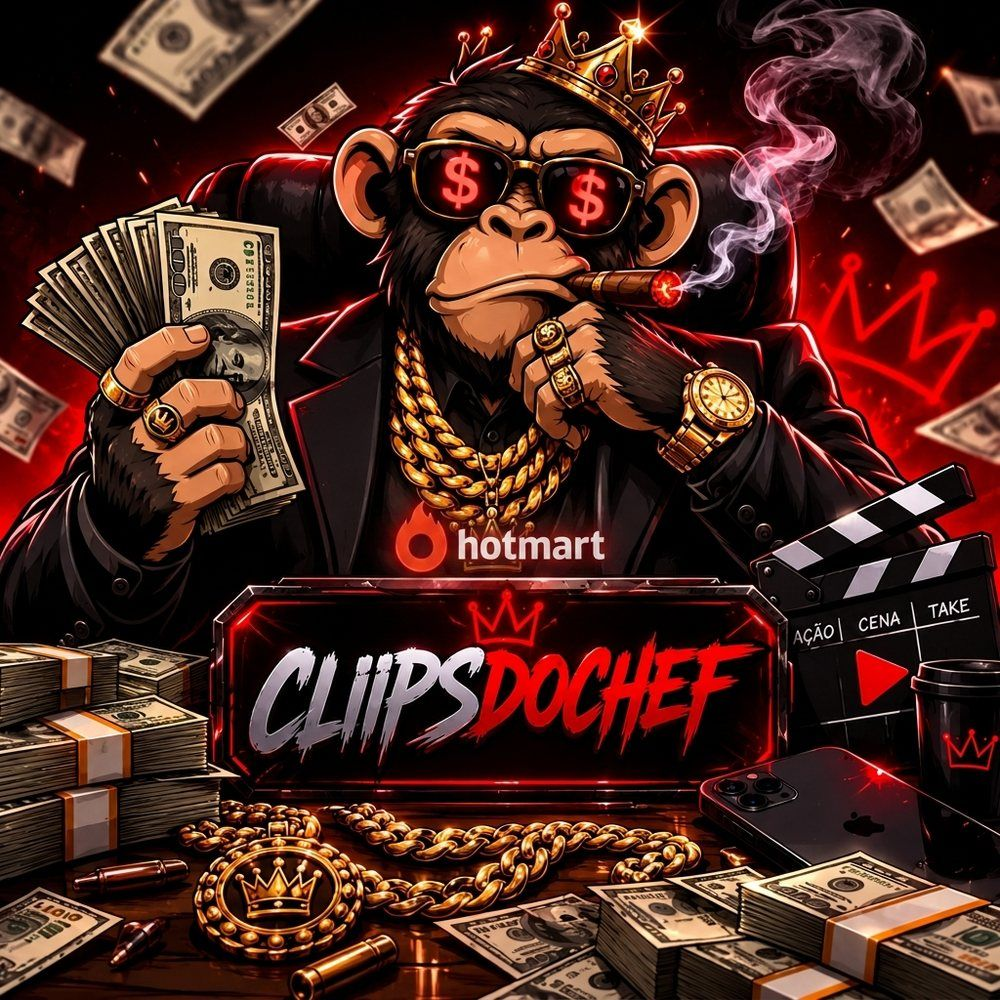
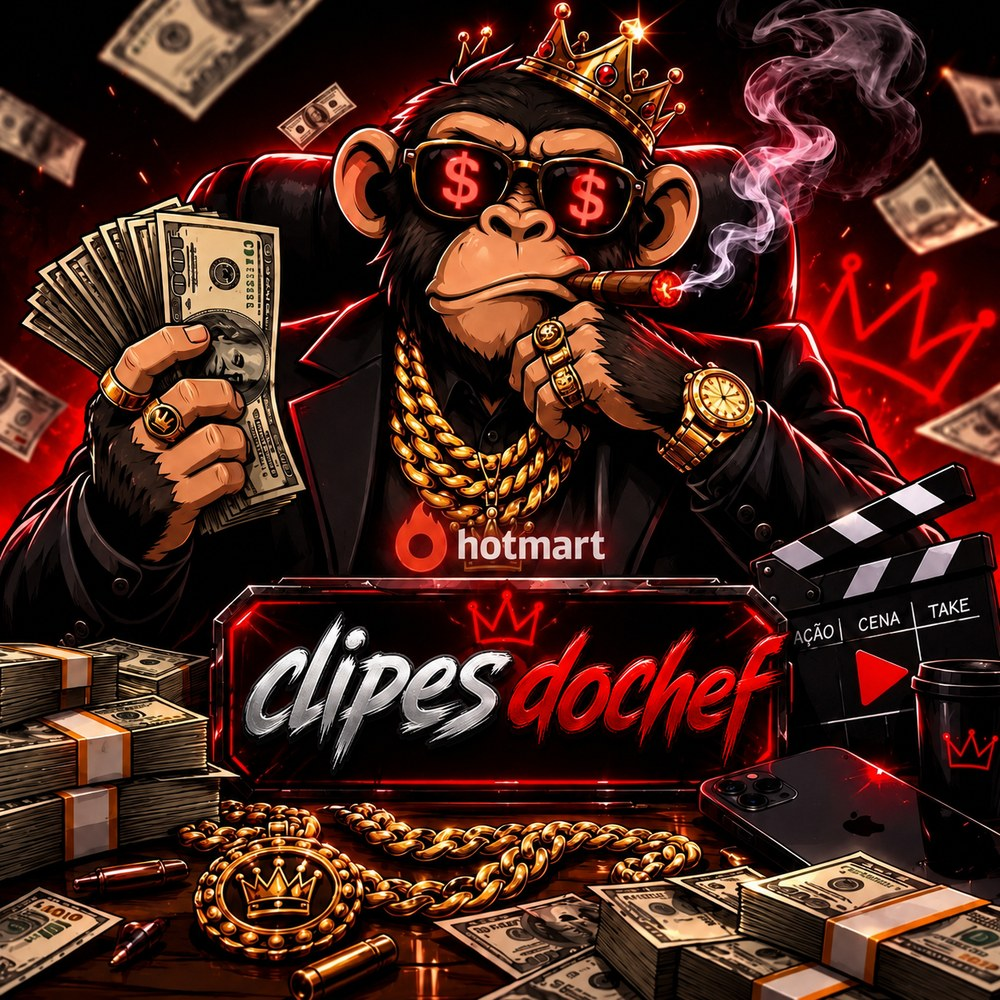
Troca a arte com o selo da Hotmart pela grafia correta
Última peça da marca que ainda trazia CLIIPSDOCHEF. É a imagem da seção
"Conheça o ClipesDoChef", no meio da página.

O PNG enviado tinha 2,5 MB em 1254px. Convertido para JPEG progressivo a
1000px e qualidade 88, ficou em 297 KB, mantendo as mesmas dimensões do
arquivo anterior para ocupar o mesmo espaço no layout.

Com isso nenhum arquivo do projeto traz mais a grafia antiga.

CLAUDE.md: marca-hotmart.jpg sai da lista de pendências, o rodapé passa a
constar com contato@clipesdochef.com e o domínio deixa de ser pendência —
é clipesdochef.com, já no ar pela Vercel. Ficou registrado por que só o
registro A da Vercel deve existir no DNS: com vários registros A o
navegador sorteia um a cada visita, e parte dos acessos cairia na Wix.

Validado com Chromium em 360, 390, 768, 1280, 1440 e 1920px.

Claude-Session: https://claude.ai/code/session_013eUuxabkqV7zaMbf7xM3Jm

diff --git a/CLAUDE.md b/CLAUDE.md
@@ -135,7 +135,7 @@ public/
 ├── letreiro-clipesdochef.png   letreiro empilhado, grafia nova — NÃO USADO na página:
 │                               a proporção (1,3:1) não cabe na faixa do cabeçalho
 ├── marca-clipesdochef.jpg      arte principal (hero) — grafia nova
-├── marca-hotmart.jpg           versão com selo Hotmart — AINDA COM A GRAFIA ANTIGA
+├── marca-hotmart.jpg           versão com selo Hotmart — grafia nova
 ├── templates-clipesdochef.jpg  arte do bônus 01 (templates no Canva)
 ├── favicon.png, apple-touch-icon.png, og-image.jpg
 │                               gerados da arte nova (rosto e peça inteira)
@@ -170,13 +170,15 @@ public/
 ### Pronto
 Todas as 13 seções + comparativo, copy completo em português, identidade visual aplicada a
 partir da arte da marca, preço R$ 37,90, garantia de 7 dias, 10 perguntas no FAQ, rodapé com
-e-mail `0x1trampo@gmail.com` e Instagram `instagram.com/clipesdochef`.
+e-mail `contato@clipesdochef.com` e Instagram `instagram.com/clipesdochef`.
+
+O site está no ar em **clipesdochef.com** (Vercel, publicando da branch `main`), com o
+checkout da Hotmart ligado e todas as artes da marca na grafia correta.
 
 ### Falta (dados que só a dona tem)
 - [ ] `faq.items[6].a` — se o acesso é vitalício ou assinatura
 - [ ] 3 prints: área de membros, aulas, coleções (`included.*.image.src`) — o de
       templates já entrou (`templates-clipesdochef.jpg`)
-- [ ] Arte com o selo da Hotmart na grafia nova (substitui `marca-hotmart.jpg`)
 - [ ] Revisão jurídica das 3 páginas em `public/`
 
 A página não tem mais nenhum placeholder tracejado. Os campos de valor
@@ -184,16 +186,19 @@ A página não tem mais nenhum placeholder tracejado. Os campos de valor
 é vendido, não há pacote avulso, então não existe valor de referência a comparar. Os
 blocos que os exibiam só voltam a aparecer se os campos forem preenchidos.
 
-### Pendências em aberto
-- **Domínio**: `brand.domain` está como `clipesdochef.com.br`, não confirmado.
-
 ### Resolvidas (não reabrir)
+- **Domínio** — é **clipesdochef.com** (sem `.br`), registrado na Wix e apontado para a
+  Vercel. O campo `brand.domain` alimenta `og:url`, `og:image`, `twitter:image` e o
+  canonical; errá-lo quebra a miniatura ao compartilhar o link e confunde o Google.
+  No DNS ficou só o registro A da Vercel: os três da Wix (faixa `185.230.63.x`) foram
+  apagados porque, com vários registros A, o navegador sorteia um a cada visita e parte
+  dos acessos cairia no servidor errado.
 - **Grafia do nome** — confirmada pela dona: é **ClipesDoChef**. A arte da marca foi
   refeita com a grafia certa e já substituída em `marca-clipesdochef.jpg`, `og-image.jpg`,
   `favicon.png` e `apple-touch-icon.png`.
 
-  O logo do cabeçalho também já está na grafia nova. **Só `marca-hotmart.jpg` ainda traz
-  o `CLIIPSDOCHEF` antigo**, e depende de material que só a dona tem.
+  O logo do cabeçalho e `marca-hotmart.jpg` também já estão na grafia nova. **Nenhum
+  arquivo do projeto traz mais o `CLIIPSDOCHEF` antigo.**
 
   Sobre o formato do logo: o cabeçalho renderiza a imagem com 40px de altura, então o
   letreiro precisa ser **deitado**. O atual tem proporção 3,1:1 e sai com 125px de
